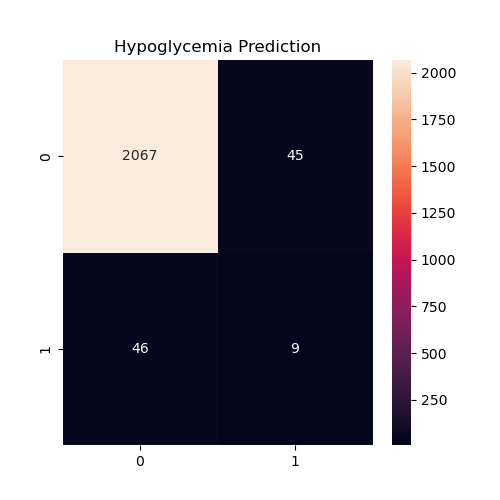
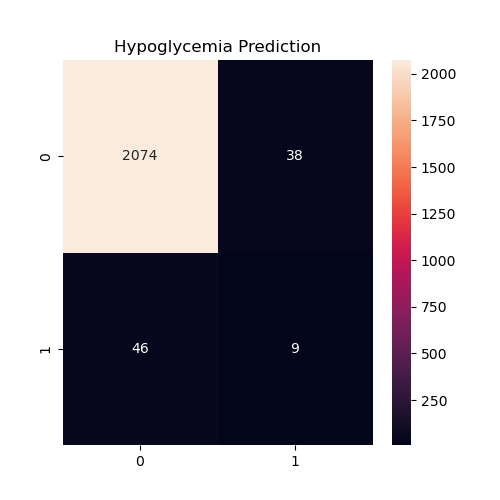
Version 5.1: Tuned hypoglycemia prediction model

diff --git a/main.py b/main.py
@@ -430,7 +430,7 @@ df_ml = df.dropna()
 #import
 from sklearn.model_selection import train_test_split
 from sklearn.linear_model import LinearRegression
-from sklearn.metrics import mean_absolute_error
+from sklearn.metrics import mean_absolute_error, recall_score
 
 #3 create x and y
 X = df_ml[
@@ -632,74 +632,6 @@ plt.savefig(
 
 plt.show()
 
-#DETAILED REPORT
-with open("output/report.txt", "w") as f:
-
-    f.write("CGM ANALYSIS REPORT\n")
-    f.write("=" * 40 + "\n\n")
-
-    f.write(f"Source File : {filename}\n")
-    f.write(f"Patient ID : {filename.split('.')[0]}\n")
-    f.write(f"Generated On : {pd.Timestamp.now()}\n\n")
-
-    # General Statistics
-    f.write("GENERAL STATISTICS\n")
-    f.write("-" * 25 + "\n")
-    f.write(f"Average Glucose : {average:.2f} mg/dL\n")
-    f.write(f"Maximum Glucose : {maximum} mg/dL\n")
-    f.write(f"Minimum Glucose : {minimum} mg/dL\n\n")
-
-    # Time in Range
-    f.write("TIME IN RANGES\n")
-    f.write("-" * 25 + "\n")
-    f.write(f"Time In Range (70-180) : {tir:.2f}%\n")
-    f.write(f"Time Above Range : {tar:.2f}%\n")
-    f.write(f"Time Below Range : {tbr:.2f}%\n\n")
-    f.write(f"Standard Deviation : {std:.2f} mg/dL\n")
-    f.write(f"Coefficient of Variation : {cv:.2f}%\n")
-    f.write(f"Estimated GMI : {gmi:.2f}%\n\n")
-    # Events
-    f.write("EVENT COUNTS\n")
-    f.write("-" * 25 + "\n")
-    f.write(f"Hypoglycemia Events : {hypo}\n")
-    f.write(f"Hyperglycemia Events : {hyper}\n\n")
-
-    # Data Quality
-    f.write("DATA QUALITY\n")
-    f.write("-" * 25 + "\n")
-    f.write(f"Maximum Gap : {df['Timestamp'].diff().max()}\n")
-    f.write(f"Number of Large Gaps : {gaps.sum()}\n\n")
-
-    # Meal Statistics
-    f.write("MEAL ANALYSIS\n")
-    f.write("-" * 25 + "\n")
-    f.write(f"Total Meals : {len(meal_df)}\n")
-    f.write(f"Average Carbs : {meal_df['Carbs'].mean():.2f} g\n")
-    f.write(f"Carb-Spike Correlation : {corr:.3f}\n\n")
-
-    # Prediction Results
-    f.write("PREDICTION RESULTS\n")
-    f.write("-" * 25 + "\n")
-    f.write(f"5 min MAE : {mae:.2f} mg/dL\n")
-    f.write(f"30 min MAE : {mae30:.2f} mg/dL\n")
-    f.write(f"60 min MAE : {mae60:.2f} mg/dL\n\n")
-
-    # Interpretation
-    f.write("INTERPRETATION\n")
-    f.write("-" * 25 + "\n")
-
-    if tir >= 70:
-        f.write("Excellent glucose control.\n")
-    elif tir >= 50:
-        f.write("Moderate glucose control.\n")
-    else:
-        f.write("Poor glucose control.\n")
-
-    f.write(
-        "Prediction error increases with longer prediction horizons.\n"
-    )
-
-print("Report saved successfully!")
 
 #version 5
 #create target variable
@@ -739,7 +671,7 @@ X_train, X_test, y_train, y_test = (
 #4classification model
 from sklearn.ensemble import RandomForestClassifier
 clf = RandomForestClassifier(
-    n_estimators=100,
+    n_estimators=200,
     random_state=42
 )
 
@@ -809,4 +741,86 @@ plt.savefig(
 )
 
 plt.show()
+
+from sklearn.metrics import (
+    recall_score,
+    precision_score,
+    f1_score
+)
+
+#DETAILED REPORT
+with open("output/report.txt", "w") as f:
+    f.write(f"Maximum Glucose : {maximum} mg/dL\n")
+    f.write(f"Minimum Glucose : {minimum} mg/dL\n\n")
+
+    f.write("CGM ANALYSIS REPORT\n")
+    f.write("=" * 40 + "\n\n")
+
+    f.write(f"Source File : {filename}\n")
+    f.write(f"Patient ID : {filename.split('.')[0]}\n")
+    f.write(f"Generated On : {pd.Timestamp.now()}\n\n")
+
+    # General Statistics
+    f.write("GENERAL STATISTICS\n")
+    f.write("-" * 25 + "\n")
+    f.write(f"Average Glucose : {average:.2f} mg/dL\n")
+
+    # Time in Range
+    f.write("TIME IN RANGES\n")
+    f.write("-" * 25 + "\n")
+    f.write(f"Time In Range (70-180) : {tir:.2f}%\n")
+    f.write(f"Time Above Range : {tar:.2f}%\n")
+    f.write(f"Time Below Range : {tbr:.2f}%\n\n")
+    f.write(f"Standard Deviation : {std:.2f} mg/dL\n")
+    f.write(f"Coefficient of Variation : {cv:.2f}%\n")
+    f.write(f"Estimated GMI : {gmi:.2f}%\n\n")
+    # Events
+    f.write("EVENT COUNTS\n")
+    f.write("-" * 25 + "\n")
+    f.write(f"Hypoglycemia Events : {hypo}\n")
+    f.write(f"Hyperglycemia Events : {hyper}\n\n")
+
+    # Data Quality
+    f.write("DATA QUALITY\n")
+    f.write("-" * 25 + "\n")
+    f.write(f"Maximum Gap : {df['Timestamp'].diff().max()}\n")
+    f.write(f"Number of Large Gaps : {gaps.sum()}\n\n")
+
+    # Meal Statistics
+    f.write("MEAL ANALYSIS\n")
+    f.write("-" * 25 + "\n")
+    f.write(f"Total Meals : {len(meal_df)}\n")
+    f.write(f"Average Carbs : {meal_df['Carbs'].mean():.2f} g\n")
+    f.write(f"Carb-Spike Correlation : {corr:.3f}\n\n")
+
+    # Prediction Results
+    f.write("PREDICTION RESULTS\n")
+    f.write("-" * 25 + "\n")
+    f.write(f"5 min MAE : {mae:.2f} mg/dL\n")
+    f.write(f"30 min MAE : {mae30:.2f} mg/dL\n")
+    f.write(f"60 min MAE : {mae60:.2f} mg/dL\n\n")
+
+    # Interpretation
+    f.write("INTERPRETATION\n")
+    f.write("-" * 25 + "\n")
+
+    if tir >= 70:
+        f.write("Excellent glucose control.\n")
+    elif tir >= 50:
+        f.write("Moderate glucose control.\n")
+    else:
+        f.write("Poor glucose control.\n")
+
+    f.write(
+        "Prediction error increases with longer prediction horizons.\n"
+    )
+
+    f.write("\nHYPOGLYCEMIA WARNING MODEL\n")
+    f.write("--------------------------\n")
+    f.write(f"Accuracy : {acc:.3f}\n")
+    f.write(f"Recall : {recall_score(y_test,pred):.3f}\n")
+    f.write(f"Precision : {precision_score(y_test,pred):.3f}\n")
+    f.write(f"F1 Score : {f1_score(y_test,pred):.3f}\n")
+
+print("Report saved successfully!")
 

diff --git a/progress.md b/progress.md
@@ -239,3 +239,19 @@ Added:
 - Accuracy calculation
 - Confusion matrix
 - Precision / Recall / F1 metrics
+
+## Version 5.1 - Model Tuning
+
+Changes:
+- Increased Random Forest estimators from 100 → 200.
+- Reduced false positives from 45 → 38.
+
+Results:
+Accuracy: 96.12%
+Precision (Hypo): 0.19
+Recall (Hypo): 0.16
+F1 Score: 0.18
+
+Observation:
+Overall accuracy improved slightly but hypoglycemia recall remained low due to severe class imbalance.
+